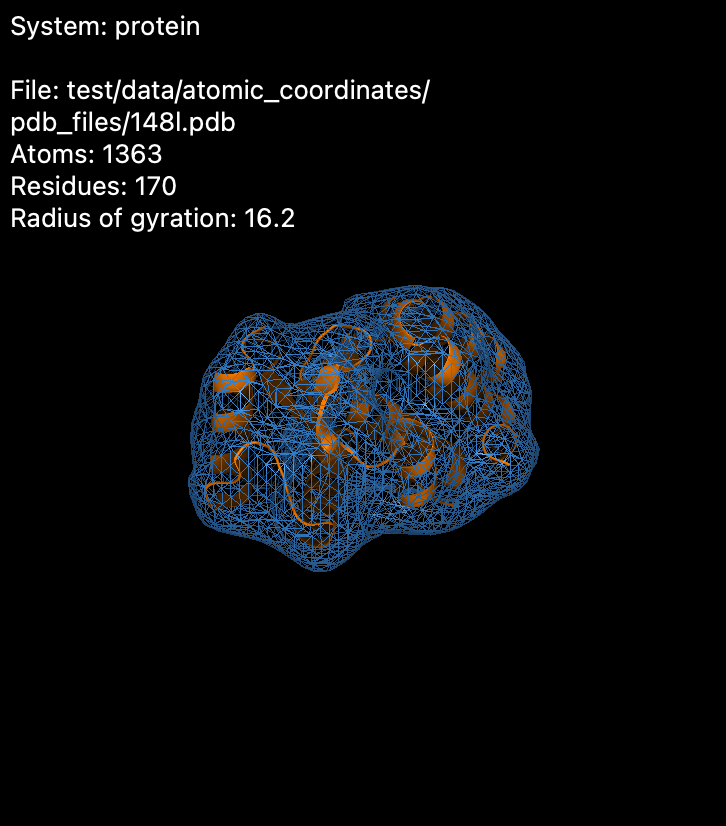
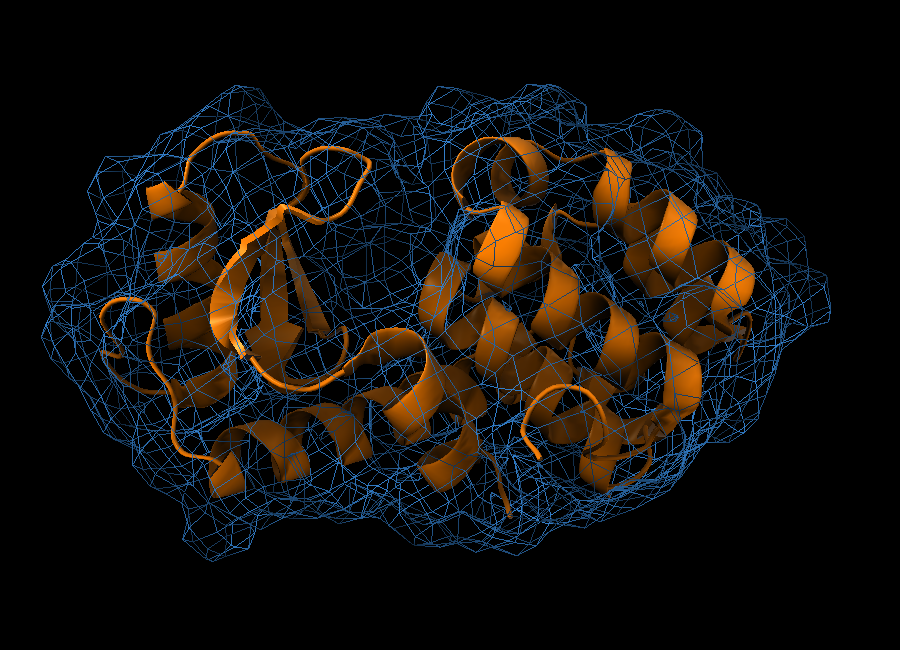
Docs review: guide 44 (ChiMOL) checked against chimol
Menu paths follow the emtk menus (no View menu; Build and Wizard are
Tools submenus; panels from Display or Tools > Panels). The Demo menu
table matches the shipped .cml demos. Wrong commands fixed: isomesh takes
color= (a 4th positional is a selection), surface_quality is a setting.
The intra_fit note claimed it was not implemented; it is. The preset note
named a polar-contact gap that is closed. Headless use rewritten for the
Qt-free ChimolApp on the offscreen canvas (the MolView/qtpy recipe no
longer exists); settings count 47 -> 104. The isomesh figure (old info
overlay) re-captured through the WebGPU path by a new script; the window
screenshot moved into "The window" and the host-size boilerplate dropped.

diff --git a/docs/guides/screenshots/chimol_map_shot.py b/docs/guides/screenshots/chimol_map_shot.py
@@ -1,0 +1,48 @@
+"""ChiMOL density figure for guide 44: a model inside its own simulated map.
+
+Run from the repository root with the project environment:
+``python docs/guides/screenshots/chimol_map_shot.py``. Builds chimol's
+toolkit-free app on the offscreen canvas, loads T4 lysozyme (148L, shipped
+with chimol's demos), draws it as an orange cartoon, simulates its density at
+6 A with ``molmap`` and contours that map at one level, restyled as a sky-blue ``isomesh``, then
+writes ``docs/guides/figures/chimol_map_isomesh.png`` with ``png``.
+"""
+
+from __future__ import annotations
+
+import pathlib
+import tempfile
+
+FIG = pathlib.Path(__file__).resolve().parents[1] / "figures"
+
+
+def main() -> None:
+    """Render the isomesh figure headlessly."""
+    import chimol
+    from chimol.core.settings.dirs import set_settings_dir
+
+    set_settings_dir(tempfile.mkdtemp(prefix="chimol-shot-"))
+    from chimol.hosts.native.app import ChimolApp
+
+    pdb = pathlib.Path(chimol.__file__).parent / "data" / "demos" / "148l.pdb"
+    app = ChimolApp(size=(900, 650), backend="offscreen")
+    app.cmd.set_message_callback(print)
+    app.cmd.set_error_callback(lambda error: print("error:", error))
+    app.load(str(pdb))
+    for line in (
+        "hide everything",
+        "show cartoon",
+        "color orange",
+        "molmap all, 6.0, sim",
+        "volume_level sim, 0.25",
+        "isomesh sim, 0.25, color=skyblue",
+        "orient 148l",
+    ):
+        app.cmd.do(line)
+    app.draw_frame()
+    app.cmd.do(f"png {FIG / 'chimol_map_isomesh.png'}")
+    app.close()
+
+
+if __name__ == "__main__":
+    main()

diff --git a/docs/guides/44_molecular_viewer.md b/docs/guides/44_molecular_viewer.md
@@ -62,8 +62,16 @@ viewer, and nothing has to be opened first.
 The movie transport and its scrubber appear only when there is something to
 play — a trajectory, or a timeline you set with `mset`. The **Hierarchy**,
 **RMF** and **Map** panels start closed and open themselves when a file gives
-them something to show; **View ▸ Panel Tabs** opens any of them by hand, and
-right-clicking a tab bar brings back one you have closed.
+them something to show; **Display** and **Tools ▸ Panels** open them by hand.
+
+```{figure} figures/chimol_native_host.png
+:name: fig-chimol-window
+:width: 100%
+
+ChiMOL in ChiSurf with T4 lysozyme (148L): menus and toolbar, the sequence strip
+(one row per chain), the Object List top right, the Mouse block bottom right,
+the info box, the command line, and the line with **Help** and **Guide**.
+```
 
 Inside ChiSurf a line under the view counts the open objects and holds
 **Help** and **Guide**. Help summarises the window, the mouse and the command
@@ -118,14 +126,14 @@ opens in the **Labelling network** window (**Tools ▸ Labelling**), the fps.jso
 editor — the same window the ChiSurf menu **Structure ▸ FRET ▸ FPS JSON Editor**
 opens.
 
-Objects appear in the **Objects** panel, one row each. Every row carries the same
+Objects appear in the **Object List**, one row each. Every row carries the same
 five menus PyMOL uses, and the grey `all` row applies them to everything at once:
 
 ```{figure} figures/chimol_objects_panel.png
 :name: fig-chimol-objects
 :width: 680px
 
-The Objects panel, here with the ligand and its peptidoglycan split off into
+The Object List, here with the ligand and its peptidoglycan split off into
 objects of their own. Each molecule gets a row with PyMOL's five menus —
 **A**ction, **S**how, **H**ide, **L**abel and **C**olour — and the grey `all`
 row applies a choice to every object at once.
@@ -333,7 +341,7 @@ load_map density.mrc         # MRC / CCP4 / MAP, gzipped or not
 fetch EMD-3061               # ...or straight from EMDB
 map_info                     # size, voxel step, origin, value range
 isosurface dens, density     # a solid contour at a level from the data
-isomesh dens, density, 0.08, skyblue
+isomesh dens, density, 0.08, color=skyblue
 volume_level density, 0.12   # move the contour
 ```
 
@@ -341,9 +349,9 @@ volume_level density, 0.12   # move the contour
 :name: fig-chimol-map
 :width: 640px
 
-A density contoured as an `isomesh` around the structure it belongs to. The
-wireframe leaves the model visible inside, which is the point of that mode; the
-same contour as `isosurface` is a solid envelope.
+T4 lysozyme (148L) inside its own `molmap` density at 6 Å, contoured at 0.25 as
+an `isomesh`. The wireframe leaves the model visible inside, which is the point
+of that mode; the same contour as `isosurface` is a solid envelope.
 ```
 
 **A map lands where the file says it does.** The reader honours the voxel step,
@@ -484,7 +492,7 @@ switches off like everything else. Menu actions that write files — Save
 Molecule As…, Save Image As…, and everything under File ▸ Export — ask with
 a real file dialog; the command line keeps taking paths as text.
 
-**Editing lives in the Build menu.** Bond/unbond (with bond orders), remove,
+**Editing lives in Tools ▸ Build.** Bond/unbond (with bond orders), remove,
 alter, pseudoatom, add hydrogens and the mutagenesis wizard — all
 long-existing commands — plus Edit ▸ Undo/Redo, which are PyMOL's scope
 exactly: sixteen coordinate snapshots per object; colours, representations
@@ -514,8 +522,8 @@ buttons: the eye (`o`) shows or hides the map object, the `x` unloads it —
 closing the *window* keeps the map; this closes the map.
 
 **Map tools live under Tools ▸ Map.** The **Tools** menu groups the working
-tools into submenus (Map, Measure, Panels), every entry a command you can also
-type. Two tools ported from the reference viewer:
+tools into submenus (Build, Wizard, Map, Measure, Panels), every entry a command
+you can also type. Two tools ported from the reference viewer:
 
 - **Hide Dust** (`hide_dust [map,] [size]`): a contour near an interesting
   level is surrounded by noise crumbs — disconnected blobs the size of a few
@@ -685,8 +693,8 @@ rotation must be an isometry, and each group must have exactly one identity —
 
 ### Trying it out: the Demo menu
 
-The **Demo** menu runs a set of short scripts, so the viewer can be exercised
-without a lot of clicking:
+The **Demo** menu runs short scripts, so the viewer can be exercised without a
+lot of clicking. The first ones are a tour of the viewer itself:
 
 | Entry | What it shows |
 | --- | --- |
@@ -697,30 +705,30 @@ without a lot of clicking:
 | Publication figure | Flat shading with silhouettes |
 | Trajectory + intra_fit | Why fitting makes a movie readable |
 | Measuring | Surface area, bonds, hydrogens |
+| Dye labelling, T4L FRET network | Accessible volumes and a labelling plan |
 | EMDB density map | Fetch a map and contour it |
-| NPC (integrative, PDB-IHM) | A model made of beads, not atoms |
+| NPC (yeast PDB-IHM assembly) | A model made of beads, not atoms |
 | Biofilm growth (simulated) | Cells divide, stack and change state |
 
-Each is a plain **ChiMOL script** — one command per line — living in
-`chimol/demos/` and run exactly as `@file.pml` runs one. So a demo is also
-documentation you can read, and a development harness: a demo that stops working
-is a command that stopped working.
+After them come the imaging and mesoscale ones — a cryo-electron tomogram, NPC
+localisation averages, and the **PetWorld Gigastructures** submenu (virions,
+synapses, phages). **List them at the prompt** (or `demo` with no argument)
+lists every one; a click runs it, and `demo cartoon` runs one by name.
+
+Each is a plain **ChiMOL script** (`.cml`, one command per line) shipped in
+chimol's `data/demos`. So a demo is also documentation you can read, and a
+development harness: a demo that stops working is a command that stopped
+working.
 
 Most name a file. **Biofilm growth** names one that does not exist until it is
 computed: the simulation runs on first use and is cached, so the demo shows a
 result rather than a picture of one. Where the simulator is not installed the
 menu entry says so instead of failing to open a file.
 
-Run one from the command line instead:
-
-```text
-@demos/cartoon.pml
-```
-
 **Demo ▸ Edit a demo script…** opens it in a script editor — ChiSurf's code
 editor when ChiSurf is present, and a small built-in one when ChiMOL is running
 standalone — so a demo is a starting point to modify rather than a fixed recital.
-**New script…** opens an empty one.
+**New script…** opens an empty one; `@file.cml` runs a script of your own.
 
 ### Making it look good
 
@@ -807,9 +815,9 @@ actually has. Set it to 0 explicitly for PyMOL's look.
 ### How finely the surface is built
 
 ```text
-surface_quality 0        # PyMOL's scale, and the default
-surface_quality 1        # "good" -- roughly 4x the triangles
-surface_quality -2       # coarse and fast, for a first look
+set surface_quality, 0   # PyMOL's scale, and the default
+set surface_quality, 1   # "good" -- roughly 4x the triangles
+set surface_quality, -2  # coarse and fast, for a first look
 set surface_normal, 0.6  # the separation level 0 selects, in Angstrom
 ```
 
@@ -931,7 +939,8 @@ wheel still scrolls it a row at a time.
 
 ### When a new version changes a default
 
-Your settings live in `~/.chisurf/chimol_display.json`, and they are yours —
+Your settings live in `chimol_display.json` in ChiSurf's settings folder
+(standalone chimol: `~/.chimol`), and they are yours —
 nothing rewrites them behind your back. But a default that improves between
 versions has to be able to reach you, or you keep a value nobody intended and
 the viewer quietly stops matching what the documentation describes.
@@ -1097,7 +1106,7 @@ ungroup lig                  # take one back out
 :name: fig-chimol-groups
 :width: 680px
 
-Two groups in the Objects panel. `ligands` is open, so its members are drawn
+Two groups in the Object List. `ligands` is open, so its members are drawn
 indented beneath it; `parts` is collapsed. A group row carries the same five
 menus an object row does, and a menu choice made there is applied to every
 member — so **H ▸ everything** on `ligands` hides both molecules.
@@ -1299,7 +1308,7 @@ rms polymer, other_object and polymer
 
 Naming two atoms in a selection expression means already knowing which two they
 are, which is the opposite of what you want when measuring something you are
-looking at. **Wizard ▸ Measurement** — or `wizard measurement` — hands the mouse
+looking at. **Tools ▸ Wizard ▸ Measurement** — or `wizard measurement` — hands the mouse
 to a wizard instead: click atoms in the viewport and every two of them become a
 distance, drawn and labelled in Ångström.
 
@@ -1579,7 +1588,7 @@ because nothing yet asks to be phi/psi-aware.
 ### The mutagenesis wizard
 
 Choosing a rotamer means *looking* at each one, so mutation is the one place a
-command is the wrong surface. **Wizard ▸ Mutagenesis** opens PyMOL's simplest
+command is the wrong surface. **Tools ▸ Wizard ▸ Mutagenesis** opens PyMOL's simplest
 GUI: a small panel under the object list, and a line in the top-left of the
 view saying what it is waiting for.
 
@@ -1690,16 +1699,17 @@ pair_fit mob and resi 10-25 and name CA, ref and resi 10-25 and name CA, \
 The fit moves the whole mobile object, not only the atoms named in it.
 
 :::{note}
-`intra_fit` and `intra_rms` fit the *states* of one object to each other. chimol
-holds a single coordinate set per object, so they have nothing to work on and are
-not implemented.
+`intra_fit` and `intra_rms` work on the *states* of one trajectory object:
+`intra_fit polymer and name CA` superposes every state onto state 1 on the
+backbone (the whole object moves), and `intra_rms` reports each state's RMSD
+without moving anything.
 :::
 
 ## Presets — one command to a figure
 
 A preset is a short recipe of ordinary commands that takes a freshly loaded
 structure to something worth looking at. They are PyMOL's, transcribed from
-`preset.py` with PyMOL's names, and they are in the object panel's **A** menu
+`preset.py` with PyMOL's names, and they are in the Object List's **A** menu
 under *preset* as well as on the command line:
 
 ```text
@@ -1715,13 +1725,14 @@ preset default               # back to lines and nonbonded, coloured by element
 ```
 
 `simple`, `simple_no_solv`, `ligands`, `ligand_sites`, `ligand_cartoon`,
-`pretty_solv` and `pub_solv` complete PyMOL's set.
+`pretty_solv` and `pub_solv` complete PyMOL's set. `preset_cx` lists a second,
+ChimeraX-style set that changes how the shown parts *look* rather than what is
+shown.
 
 :::{note}
 Where chimol cannot do one step of a recipe it does the rest and **says which
-step it skipped** — `preset technical` reports that it drew no polar contacts,
-because that needs a hydrogen-bond finder chimol has not got. A preset never
-quietly produces less than it claims.
+step it skipped** — `cartoon_fancy_helices`, for one, is not implemented by
+chimol's cartoon. A preset never quietly produces less than it claims.
 
 Two differences apply throughout: PyMOL scopes a setting to a selection
 (`set stick_radius, 0.14, sele`) while chimol's settings are one global display
@@ -1904,8 +1915,8 @@ does not draw, and reports rather than dropping in silence:
 
 ## Headless and scripted use
 
-The viewer is a Qt widget, but the parts that compute do not need a window. The
-surface-area calculation is a plain function:
+The parts that compute do not need a window. The surface-area calculation is a
+plain function:
 
 ```python
 import numpy as np
@@ -1927,40 +1938,26 @@ areas = atom_surface_areas(
 print(f"cysteine SASA: {areas.sum():.1f} A^2")
 ```
 
-To drive the command language without a GUI session, build a viewer and hand it
-to `Cmd`:
+To drive the command language without a window, build chimol's toolkit-free
+app on the offscreen canvas — the same viewer and the same `Cmd` the window
+uses, rendering into a buffer:
 
 ```python
-from qtpy import QtWidgets
-from chimol.commands.command import Cmd
-from chimol.core.viewer import MolView
+from chimol.hosts.native.app import ChimolApp
 
-app = QtWidgets.QApplication.instance() or QtWidgets.QApplication([])
-view = MolView()
-view.add_structure(_read_full_model(cs_struct.Structure, "148l.pdb"), name="148l")
-
-
-class Host:
-    viewer = view
-
-    def _refresh_objects_from_viewer(self):
-        pass
-
-    def windowTitle(self):
-        return "chimol"
-
-
-cmd = Cmd(Host())
-cmd.set_message_callback(print)
-cmd.set_error_callback(print)
-cmd.do("set dot_solvent, on")
-cmd.do("get_area polymer")
+app = ChimolApp(size=(900, 650), backend="offscreen")
+app.cmd.set_message_callback(print)
+app.cmd.set_error_callback(print)
+app.load("148l.pdb")
+app.cmd.do("set dot_solvent, on")
+app.cmd.do("get_area polymer")        # get_area: 8039.319 A^2 (solvent-accessible, ...)
+app.cmd.do("ray render.png, 1200, 900")
+app.cmd.do("png view.png")            # the viewport, at the app's size
+app.close()
 ```
 
-Run it under an offscreen Qt platform (`QT_QPA_PLATFORM=offscreen`). The ray
-tracer needs no GPU and no display, which is how the figure above was made; the
-OpenGL viewport does need a display, so `png` will not work headlessly while
-`ray` will.
+Neither needs Qt or a display; the density figure above is made this way by
+`docs/guides/screenshots/chimol_map_shot.py`.
 
 ## Where things stand
 
@@ -1974,23 +1971,10 @@ OpenGL viewport does need a display, so `png` will not work headlessly while
 | `get_area` | Follows `dot_solvent` / `dot_density` / `solvent_radius` |
 | Ray tracing | Every representation the viewport draws, except labels |
 | Undo | Coordinates only, per object, 16 deep (PyMOL's scope) |
-| Settings | 47 registered of PyMOL's 769 |
+| Settings | 104 registered of PyMOL's 769 |
 
 `okf/plugins/pymol-parity.md` tracks the rest.
 
 ## See also
 
 - Tool: **ChiMOL** (`chisurf/plugins/chimol/`).
-
-### Native host dimensions
-
-The ChiSurf native molecular viewer declares an initial 1200 × 800 host.
-Saved user dimensions take precedence. The renderer's internal initialization
-size is separate; it continues to render at the actual viewport dimensions
-when the host changes size. Loading, representation commands and pointer/wheel
-interaction retain the same atom coordinates and molecular state.
-
-Reopening restores host dimensions; the adapter does not add a molecular-scene
-snapshot to its preferences. ChiMOL keeps its own display and layout settings.
-
-![Native viewer with the T4 lysozyme fixture](figures/chimol_native_host.png)

diff --git a/okf/references/known-issues.md b/okf/references/known-issues.md
@@ -3507,6 +3507,9 @@ ray out.png, 900, 650
 
 This blocks regenerating `chimol_molmap.png` and `chimol_map_isomesh.png`, which
 are chrome-free ray renders; the existing files are correct and were left alone.
+(2026-10-14: `chimol_map_isomesh.png` is now made through the WebGPU path instead
+— `png` on the offscreen `ChimolApp`, `docs/guides/screenshots/chimol_map_shot.py`
+— which sidesteps this; `chimol_molmap.png` is still the old ray render.)
 
 **Worth knowing whichever path you use:** give `isomesh` **no level**. A map
 opens already contoured, and a level argument *appends* a second contour rather
